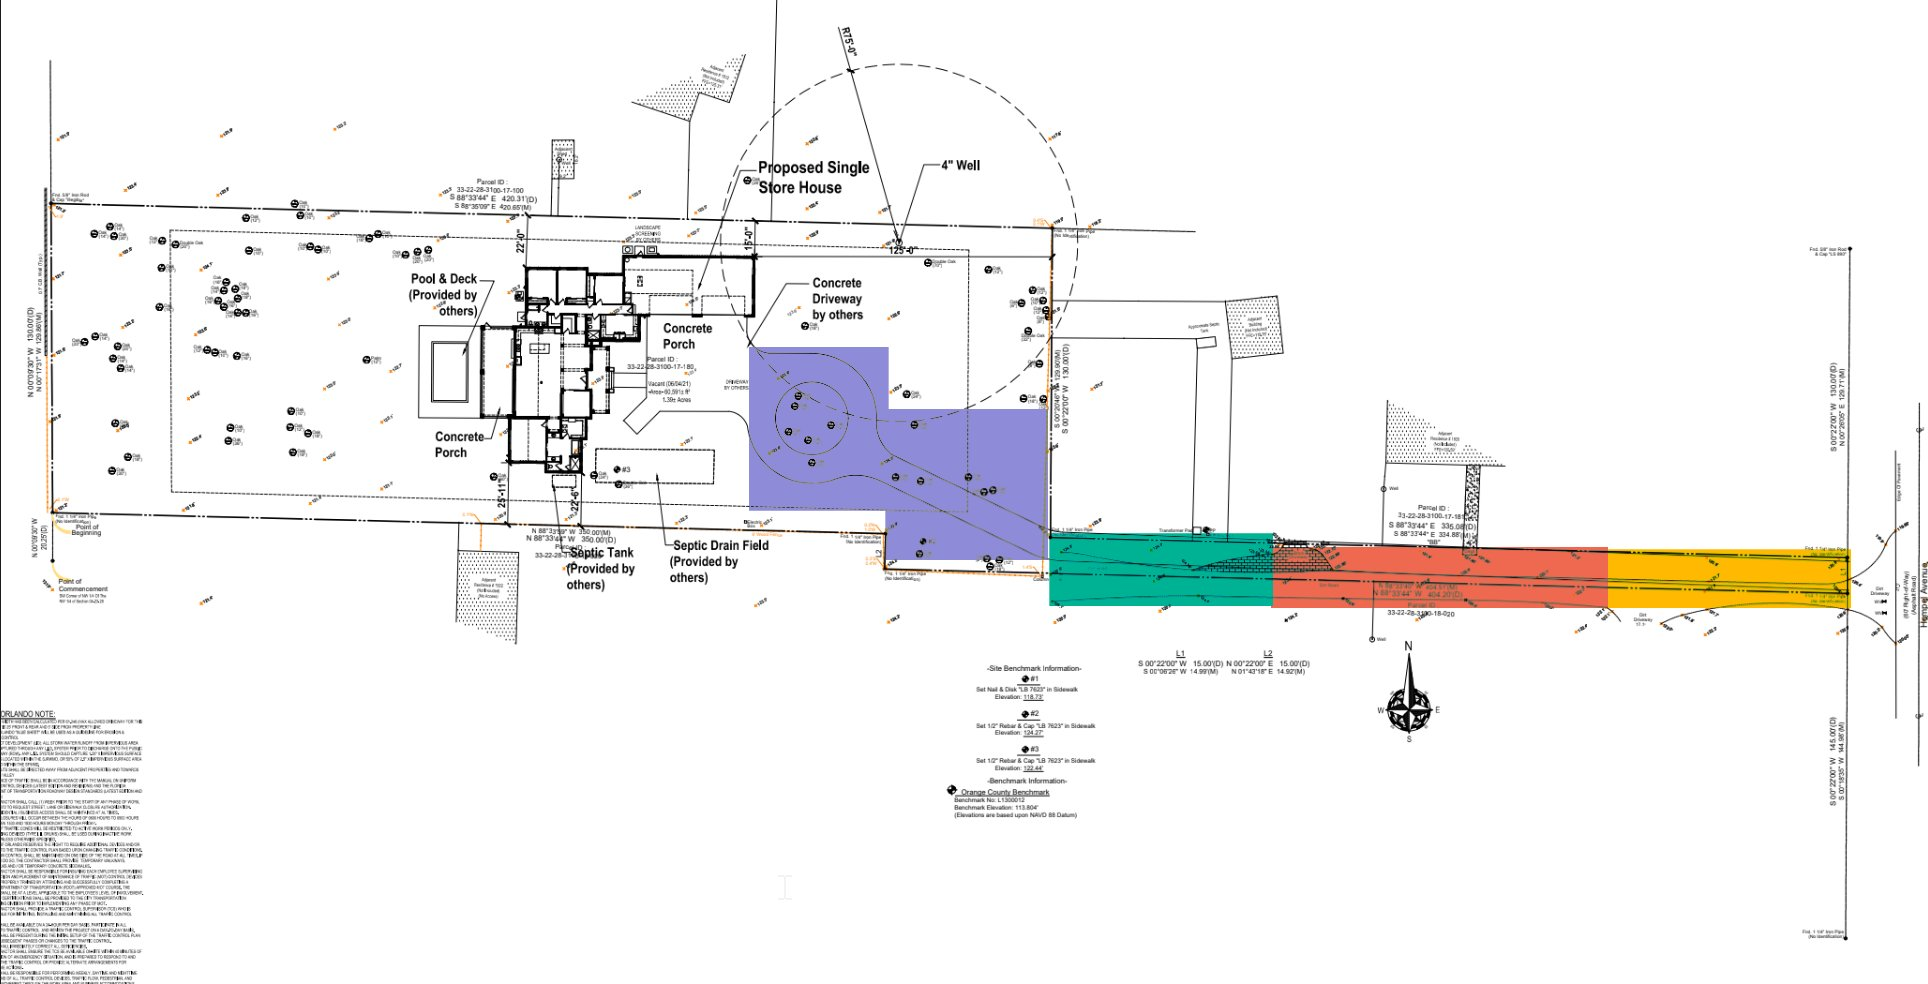
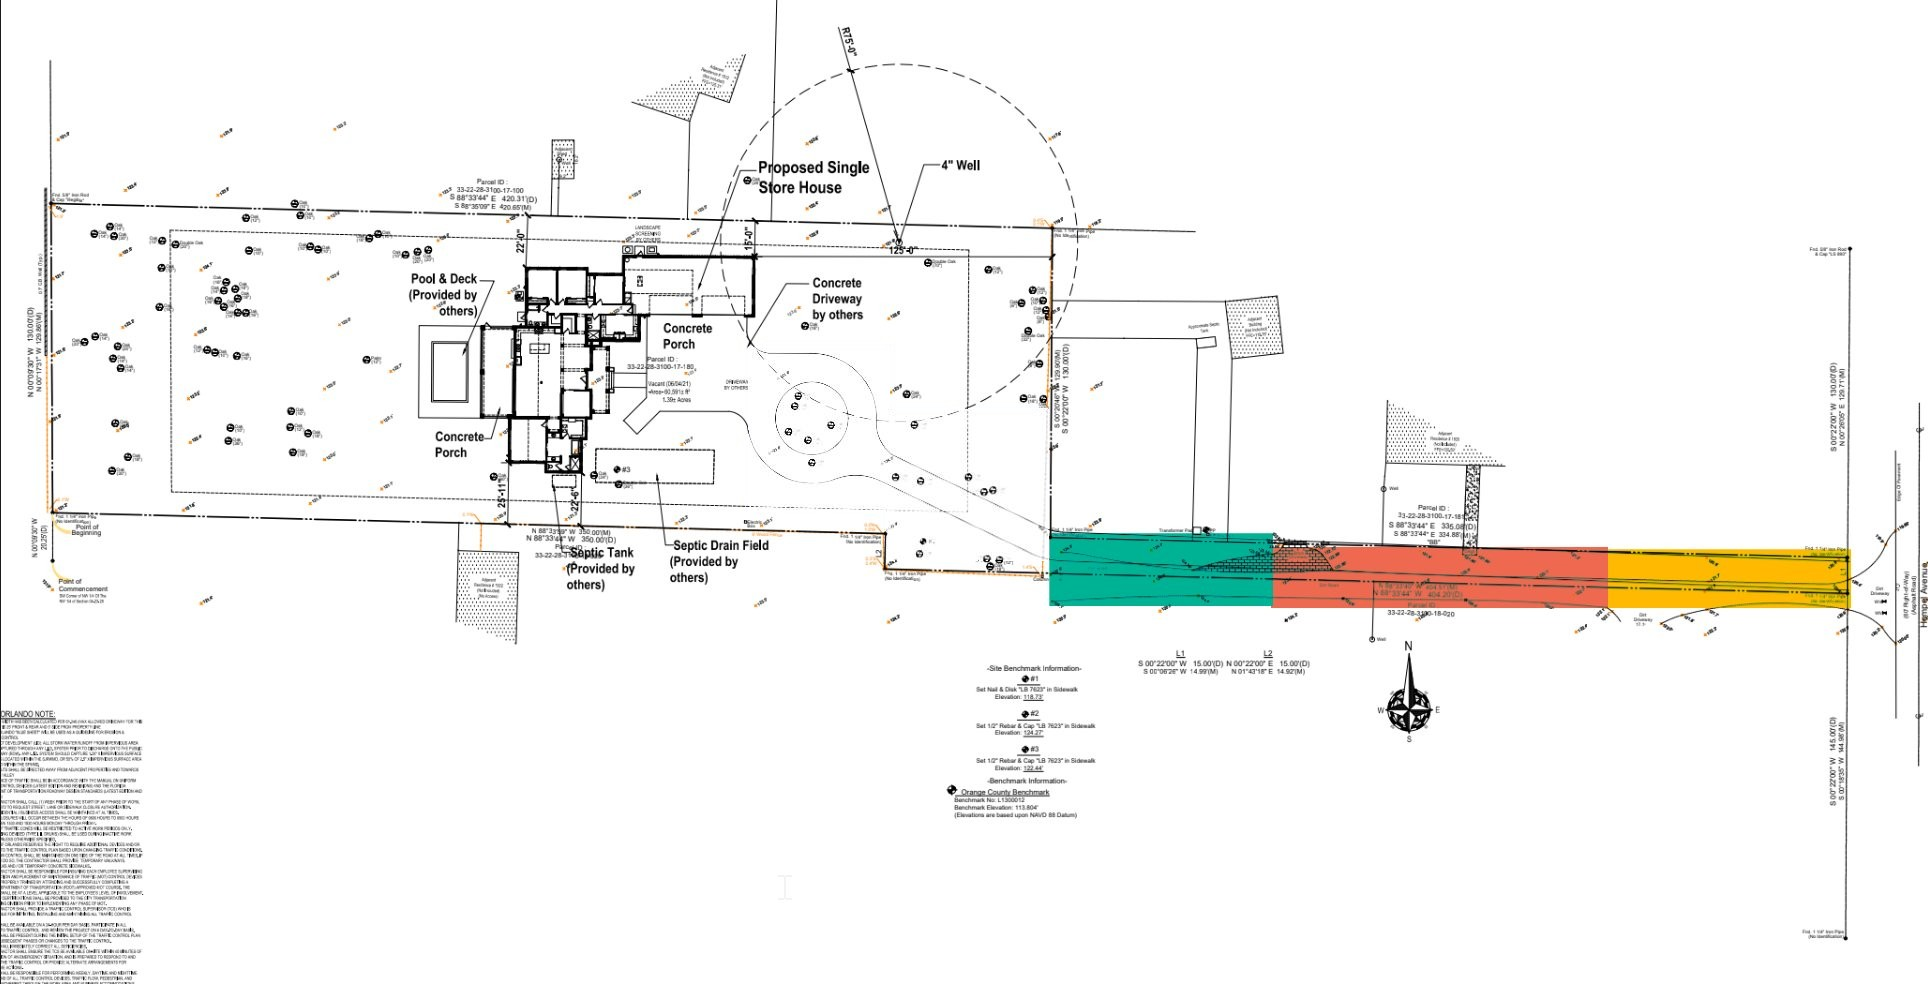
Keep the page to the shared driveway only
Remove everything that is 1830's alone so the proposal reads as the
shared road: the house loop, paver pad and house front views (and
their photos), the 1830 driveway area input, "Whole job" and "Saves"
columns and totals, the "1830 only" block on the plan, and the 1830
loop note in the maintenance rules. The cost table now shows each
household's share of the shared road only.

Swap in a copy of the survey without the purple 1830 markup.

Claude-Session: https://claude.ai/code/session_01KxngpR1unhE74uWLYUnd1P

Changed region(s): [[0.3734, 0.3354, 0.5602, 0.5793]]

diff --git a/index.html b/index.html
@@ -115,14 +115,6 @@ header{display:grid;gap:16px}
 .note{font-size:.88rem;color:var(--muted)}
 .controls h3{margin-bottom:-4px}
 .fields2{display:grid;grid-template-columns:repeat(auto-fit,minmax(min(100%,190px),1fr));gap:14px}
-.totals{display:grid;grid-template-columns:repeat(auto-fit,minmax(min(100%,220px),1fr));gap:12px}
-.tot{background:var(--panel);border:1px solid var(--line);border-radius:8px;padding:14px 16px;display:grid;gap:4px}
-.tot.win{border-color:var(--oak)}
-.tot .k{font-size:.8rem;font-weight:600;text-transform:uppercase;letter-spacing:.08em;color:var(--muted)}
-.tot .v{font-family:var(--display);font-weight:700;font-size:2rem;line-height:1;font-variant-numeric:tabular-nums}
-.tot .s{font-size:.85rem;color:var(--muted)}
-.shares .save{color:var(--oak);font-weight:600}
-.shares tr.priv td{color:var(--muted);font-weight:500}
 .table-wrap{display:grid;gap:14px;min-width:0}
 .tscroll{overflow-x:auto}
 .shares{width:100%;border-collapse:collapse;font-variant-numeric:tabular-nums}
@@ -186,8 +178,8 @@ footer{color:var(--muted);font-size:.88rem;border-top:1px solid var(--line);padd
 
     <div class="sources">
       <figure class="src">
-        <a href="img/survey-split.jpg" target="_blank" rel="noopener"><img src="img/survey-split.jpg" alt="Site plan from the 1830 Hempel survey with the road marked in yellow, red, green and purple sections" loading="lazy"></a>
-        <figcaption><b>Survey of 1830 Hempel, marked up.</b> Yellow: all four households. Red: 1820, 1830 and 1922. Green: 1830 and 1922. Purple: 1830 only. Section lengths are scaled from the surveyed 420.31 ft and 335.08 ft property lines.</figcaption>
+        <a href="img/survey-split.jpg" target="_blank" rel="noopener"><img src="img/survey-split.jpg" alt="Site plan from the 1830 Hempel survey with the road marked in yellow, red and green sections" loading="lazy"></a>
+        <figcaption><b>Survey of 1830 Hempel, marked up.</b> Yellow: all four households. Red: 1820, 1830 and 1922. Green: 1830 and 1922. Section lengths are scaled from the surveyed 420.31 ft and 335.08 ft property lines.</figcaption>
       </figure>
       <figure class="src">
         <a href="img/google-measure.jpg" target="_blank" rel="noopener"><img src="img/google-measure.jpg" alt="Google Maps aerial with a 335.35 ft measurement along the road from Hempel Ave" loading="lazy"></a>
@@ -202,16 +194,14 @@ footer{color:var(--muted);font-size:.88rem;border-top:1px solid var(--line);padd
           <div class="field"><label for="rate">Concrete, per sq ft ($)</label><input id="rate" inputmode="decimal" value="11" autocomplete="off"></div>
           <div class="field"><label for="fixed">Fixed job costs ($)</label><input id="fixed" inputmode="numeric" value="4,000" autocomplete="off"></div>
           <div class="field"><label for="aShared">Shared road (sq ft)</label><input id="aShared" inputmode="numeric" value="4,200" autocomplete="off"></div>
-          <div class="field"><label for="aPriv">1830 driveway (sq ft)</label><input id="aPriv" inputmode="numeric" value="2,700" autocomplete="off"></div>
         </div>
         <p class="note"><b>These are estimates, not quotes.</b> $11 per sq ft is the middle of the $10 to $13 Orlando range for 4 inch, fiber reinforced, broom finish concrete. Fixed costs cover things that are paid once per job: mobilization, permit, equipment and a pump truck if needed.</p>
-        <p class="note">Shared road: 335 ft long by about 12 ft wide, plus the apron at Hempel. 1830 driveway: the loop, the spur to the road and the pad by the garage, scaled from the site plan.</p>
-        <p class="note">Fixed costs are split by square footage between the shared road and the 1830 driveway. The shared road's part is then split by road use. Distances are scaled from the recorded survey of 1830 Hempel and match a Google Maps measurement within a few inches.</p>
+        <p class="note">Shared road: 335 ft long by about 12 ft wide, plus the apron at Hempel.</p>
+        <p class="note">The whole cost, fixed costs included, is split by road use. Distances are scaled from the recorded survey of 1830 Hempel and match a Google Maps measurement within a few inches.</p>
       </div>
       <div class="table-wrap">
-        <div class="totals" id="totals"></div>
         <div class="tscroll"><table class="shares">
-          <thead><tr><th>Household</th><th class="num">Share</th><th class="num">Road only</th><th class="num">Whole job</th><th class="num">Saves</th></tr></thead>
+          <thead><tr><th>Household</th><th class="num">Share</th><th class="num">Cost</th></tr></thead>
           <tbody id="shareRows"></tbody>
           <tfoot id="shareFoot"></tfoot>
         </table></div>
@@ -228,7 +218,7 @@ footer{color:var(--muted);font-size:.88rem;border-top:1px solid var(--line);padd
     </div>
     <div class="rules">
       <div class="rule"><h3>Shared sections</h3><p>Repairs are split the same way as the pour. Yellow: all four. Red: 1820, 1830 and 1922. Green: 1830 and 1922.</p></div>
-      <div class="rule"><h3>Private sections</h3><p>Each household maintains its own driveway past the point where it leaves the shared road. The 1830 loop is 1830's alone.</p></div>
+      <div class="rule"><h3>Private sections</h3><p>Each household maintains its own driveway past the point where it leaves the shared road.</p></div>
       <div class="rule"><h3>Routine upkeep</h3><p>Sweeping, edging and trimming overhanging branches. Each household handles what borders its own lot, with no cost sharing.</p></div>
       <div class="rule"><h3>Damage you cause, you fix</h3><p>If a household's dumpster, moving truck or contractor cracks a slab, that household pays for the repair.</p></div>
       <div class="rule"><h3>Deciding on repairs</h3><p>Repairs under an agreed amount, such as $1,000, can go ahead. Larger ones need approval from households holding more than half the shares. Emergency fixes can be made right away.</p></div>
@@ -260,12 +250,7 @@ const VIEWS=[
   {id:"interior",title:"Interior road",text:"The straight run through the trees, paved edge to edge."},
   {id:"side",title:"Side junction",text:"The branch toward the neighboring house, with one continuous surface through the turn."},
   {id:"gate",title:"Gate junction",text:"The approach toward the gate, paved right up to the entry."},
-  {id:"long-road",title:"The long road",text:"The main stretch along the bamboo, now a smooth, even lane."},
-  {id:"house-loop",title:"House loop",text:"The fork near the house becomes a clean Y with the lawn restored between the tracks."},
-  {id:"paver-circle",title:"Paver pad and loop",text:"The gravel area off the paver pad becomes a concrete loop around the planted island, meeting the existing pavers cleanly."},
-  {id:"house-front",title:"House front",text:"Two layout options for the approach to the house.",options:[
-    {key:"a",label:"Option A",text:"Curved drive with a gravel parking pad on the right."},
-    {key:"b",label:"Option B",text:"Wider concrete apron expanded to the left."}]}
+  {id:"long-road",title:"The long road",text:"The main stretch along the bamboo, now a smooth, even lane."}
 ];
 const knob='<svg viewBox="0 0 24 24" fill="none" stroke="#1D221E" stroke-width="2.2" stroke-linecap="round" stroke-linejoin="round"><path d="M9 6l-6 6 6 6"/><path d="M15 6l6 6-6 6"/></svg>';
 function cmpHTML(beforeSrc,afterSrc,title){
@@ -326,8 +311,6 @@ function drawBase(){
 }
 function drawRoad(d){
   const g=window.roadG;g.innerHTML="";
-  const pr=el("polygon",{points:pts([[302,514],[360,514],[360,488],[427,488],[427,434],[302,434]]),"fill-opacity":.55,stroke:cv("--h1830"),"stroke-width":1.5},g);pr.style.fill=cv("--h1830");
-  const pl=el("text",{x:364,y:fy(452),class:"tick","text-anchor":"middle"},g);pl.textContent="1830 only";pl.style.fill=cv("--ground");
   const yT=fy(434),yB=fy(405),h=yB-yT;
   d.segs.forEach(s=>{
     const k=s.users.length, t=(k-1)/3;
@@ -358,23 +341,16 @@ function compute(){
 const num=id=>parseFloat(document.getElementById(id).value.replace(/[^0-9.]/g,""))||0;
 const money=v=>"$"+Math.round(v).toLocaleString("en-US");
 function render(){
-  const d=compute(),rate=num("rate"),F=num("fixed"),As=num("aShared"),Ap=num("aPriv");
-  const roadOnly=As*rate+F;
-  const whole=(As+Ap)*rate+F;
-  const sharedInWhole=As*rate+(As+Ap>0?F*As/(As+Ap):0);
-  const privInWhole=whole-sharedInWhole;
-  let sumA=0,sumB=0;
-  const rows=HH.map(h=>{const pct=d.feet[h.id]/d.end,A=roadOnly*pct,B=sharedInWhole*pct;sumA+=A;sumB+=B;
-    return `<tr><td><span class="dot" style="background:var(${h.c})"></span>${h.addr}<div class="bar"><i style="width:${pct*100}%;background:var(${h.c})"></i></div></td><td class="num"><span class="pct">${(pct*100).toFixed(1)}%</span></td><td class="num">${money(A)}</td><td class="num">${money(B)}</td><td class="num save">${money(A-B)}</td></tr>`}).join("");
-  document.getElementById("shareRows").innerHTML=rows+`<tr class="priv"><td><span class="dot" style="background:var(--h1830)"></span>1830 driveway</td><td class="num">1830 only</td><td class="num">not built</td><td class="num">${money(privInWhole)}</td><td class="num"></td></tr>`;
-  document.getElementById("shareFoot").innerHTML=`<tr><td>Total</td><td class="num">100%</td><td class="num">${money(roadOnly)}</td><td class="num">${money(whole)}</td><td class="num save">${money(sumA-sumB)}</td></tr>`;
-  const c1830=sharedInWhole*d.feet["1830"]/d.end+privInWhole;
-  document.getElementById("totals").innerHTML=`<div class="tot"><span class="k">Shared road only</span><span class="v">${money(roadOnly)}</span><span class="s">${As.toLocaleString("en-US")} sq ft, one job</span></div><div class="tot win"><span class="k">Whole job</span><span class="v">${money(whole)}</span><span class="s">${(As+Ap).toLocaleString("en-US")} sq ft. 1830 pays ${money(c1830)} of it</span></div>`;
-  document.getElementById("segs").innerHTML=d.segs.map(s=>`<span>${s.a} to ${s.b} ft from Hempel (${s.b-s.a} ft): split ${s.users.length} ways among ${s.users.join(", ")}</span>`).join("")+`<span>"Saves" is what each household keeps when the 1830 driveway is poured in the same job and carries its share of the fixed costs.</span>`;
+  const d=compute(),rate=num("rate"),F=num("fixed"),As=num("aShared");
+  const total=As*rate+F;
+  document.getElementById("shareRows").innerHTML=HH.map(h=>{const pct=d.feet[h.id]/d.end;
+    return `<tr><td><span class="dot" style="background:var(${h.c})"></span>${h.addr}<div class="bar"><i style="width:${pct*100}%;background:var(${h.c})"></i></div></td><td class="num"><span class="pct">${(pct*100).toFixed(1)}%</span></td><td class="num">${money(total*pct)}</td></tr>`}).join("");
+  document.getElementById("shareFoot").innerHTML=`<tr><td>Total</td><td class="num">100%</td><td class="num">${money(total)}</td></tr>`;
+  document.getElementById("segs").innerHTML=d.segs.map(s=>`<span>${s.a} to ${s.b} ft from Hempel (${s.b-s.a} ft): split ${s.users.length} ways among ${s.users.join(", ")}</span>`).join("");
   drawRoad(d);
 }
 drawBase();
-["rate","fixed","aShared","aPriv"].forEach(id=>{const e=document.getElementById(id);e.addEventListener("input",render);e.addEventListener("blur",()=>{const t=parseFloat(e.value.replace(/[^0-9.]/g,""));if(!isNaN(t))e.value=t.toLocaleString("en-US");});});
+["rate","fixed","aShared"].forEach(id=>{const e=document.getElementById(id);e.addEventListener("input",render);e.addEventListener("blur",()=>{const t=parseFloat(e.value.replace(/[^0-9.]/g,""));if(!isNaN(t))e.value=t.toLocaleString("en-US");});});
 try{matchMedia("(prefers-color-scheme: dark)").addEventListener("change",()=>{drawBase();render();});new MutationObserver(()=>{drawBase();render();}).observe(document.documentElement,{attributes:true,attributeFilter:["data-theme"]});}catch(e){}
 render();
 </script>
